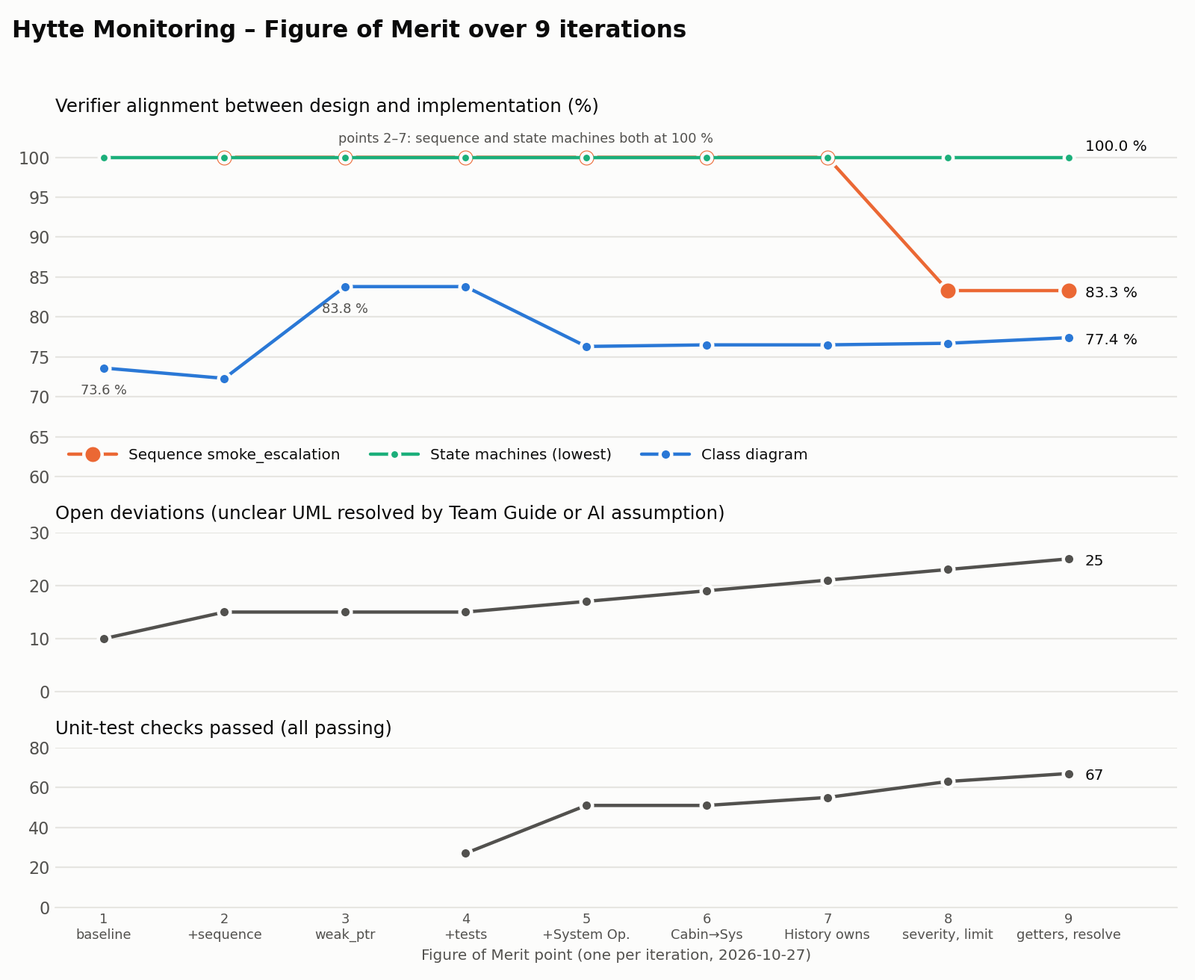
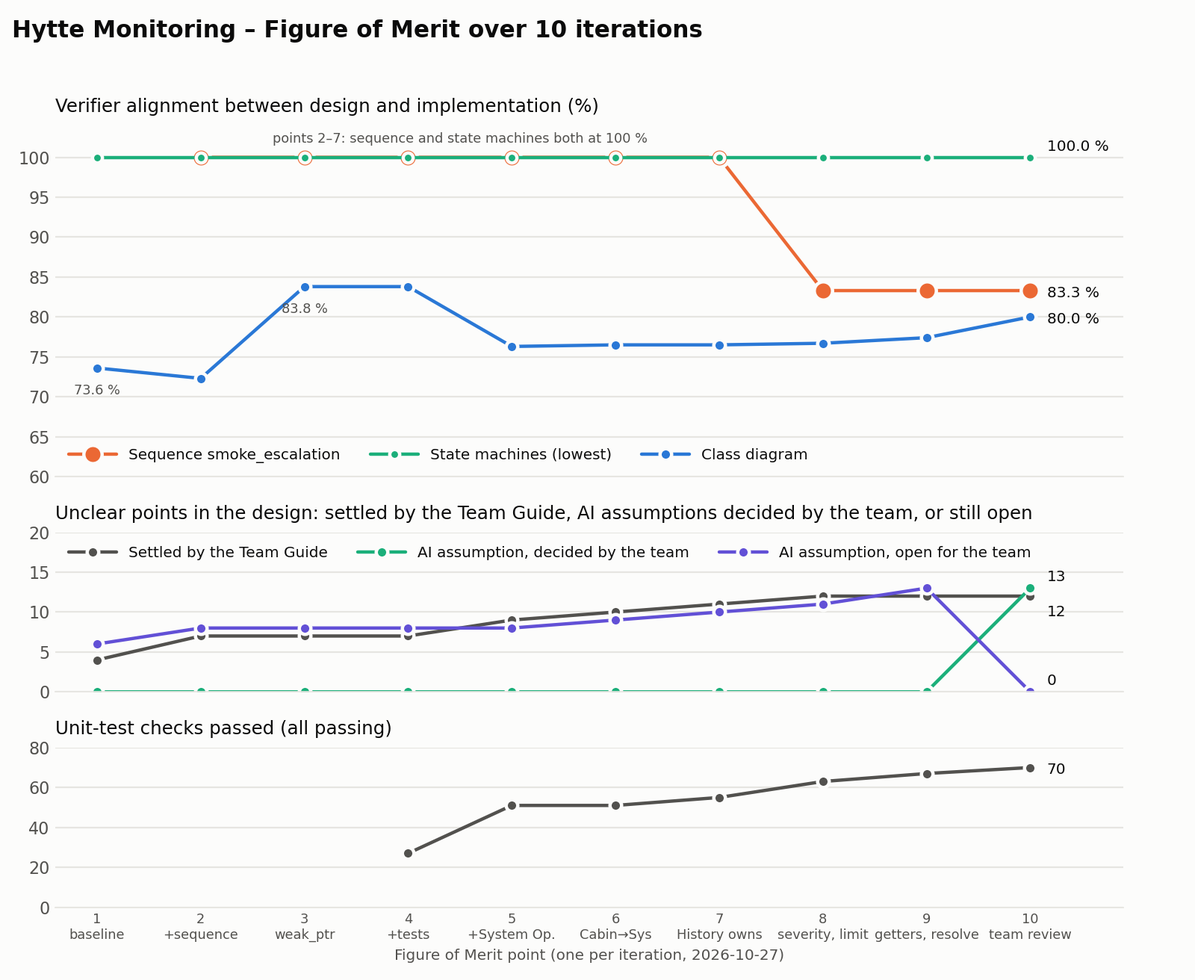
Log the review and FoM point 10

diff --git a/project/reports/plot_fom.py b/project/reports/plot_fom.py
@@ -4,7 +4,8 @@ and the same image to website/img/fom.png for the project page.
     python3 project/reports/plot_fom.py
 
 Three panels on one x-axis (the FoM points), because the measures have different scales
-and a chart never gets two y-axes: verifier alignment in %, open deviations, and unit-test
+and a chart never gets two y-axes: verifier alignment in %, unclear points in the design
+(settled by the Team Guide vs. AI assumptions still open for the team), and unit-test
 checks passed. Colours are the first three slots of the reference palette of the dataviz
 method (blue, orange, aqua), in a fixed order.
 """
@@ -23,6 +24,7 @@ TEXT = "#0b0b0b"
 TEXT_SECONDARY = "#52514e"
 GRID = "#e6e5e1"
 BLUE, ORANGE, AQUA = "#2a78d6", "#eb6834", "#1baf7a"
+VIOLET = "#6250d6"   # slot 7 of the reference palette: open AI assumptions
 
 # Short names for the x-axis, one per point (the full labels are in fom.csv).
 SHORT = {
@@ -35,6 +37,7 @@ SHORT = {
     "7": "History owns",
     "8": "severity, limit",
     "9": "getters, resolve",
+    "10": "team review",
 }
 
 
@@ -75,7 +78,11 @@ def main():
     state_pct = [min(v for v in (number(p["state_incident_pct"]), number(p["state_cabin_pct"]),
                                  number(p["state_monitoring_system_pct"])) if v is not None)
                  for p in points]
-    deviations = [number(p["deviations"]) for p in points]
+    settled = [number(p["deviations_team_guide"]) for p in points]
+    # AI assumptions the team has reviewed and decided: the rest of all deviations.
+    decided = [number(p["deviations"]) - number(p["deviations_team_guide"]) - number(p["deviations_ai_open"])
+               for p in points]
+    ai_open = [number(p["deviations_ai_open"]) for p in points]
     tests = [number(p["tests_passed"].split("/")[0]) if p["tests_passed"] else None for p in points]
 
     figure, (top, middle, bottom) = plt.subplots(
@@ -99,11 +106,17 @@ def main():
         top.annotate(f"{y:.1f} %", (x, y), xytext=(0, -16), textcoords="offset points",
                      ha="center", color=TEXT_SECONDARY, fontsize=8)
 
-    style(middle, "Open deviations (unclear UML resolved by Team Guide or AI assumption)")
-    last_x, last_y = line(middle, xs, deviations, TEXT_SECONDARY, "Deviations")
-    middle.annotate(f"{last_y:.0f}", (last_x, last_y), xytext=(10, -4), textcoords="offset points",
-                    color=TEXT, fontsize=9)
-    middle.set_ylim(0, 30)
+    # An AI assumption is not a resolution: it stays open until the team confirms it (CLAUDE.md).
+    style(middle, "Unclear points in the design: settled by the Team Guide, AI assumptions decided by the team, or still open")
+    # The end values of the first two are close together, so one label goes below its line.
+    for ys, color, name, dy in ((settled, TEXT_SECONDARY, "Settled by the Team Guide", -12),
+                                (decided, AQUA, "AI assumption, decided by the team", 4),
+                                (ai_open, VIOLET, "AI assumption, open for the team", 4)):
+        last_x, last_y = line(middle, xs, ys, color, name)
+        middle.annotate(f"{last_y:.0f}", (last_x, last_y), xytext=(10, dy), textcoords="offset points",
+                        color=TEXT, fontsize=9)
+    middle.legend(loc="upper left", frameon=False, fontsize=9, labelcolor=TEXT, ncol=3, handlelength=3.2)
+    middle.set_ylim(0, 20)
 
     style(bottom, "Unit-test checks passed (all passing)")
     last_x, last_y = line(bottom, xs, tests, TEXT_SECONDARY, "Checks")
@@ -112,10 +125,10 @@ def main():
     bottom.set_ylim(0, 80)
     bottom.set_xticks(xs)
     bottom.set_xticklabels([f"{x}\n{SHORT[str(x)]}" for x in xs], fontsize=8, color=TEXT_SECONDARY)
-    bottom.set_xlim(0.6, 9.9)
+    bottom.set_xlim(0.6, xs[-1] + 0.9)
     bottom.set_xlabel("Figure of Merit point (one per iteration, 2026-10-27)", color=TEXT_SECONDARY, fontsize=9)
 
-    figure.suptitle("Hytte Monitoring – Figure of Merit over 9 iterations", x=0.01, ha="left",
+    figure.suptitle(f"Hytte Monitoring – Figure of Merit over {len(points)} iterations", x=0.01, ha="left",
                     fontsize=14, color=TEXT, fontweight="bold")
     figure.tight_layout(rect=(0, 0, 1, 0.96))
     # One copy for the reports, one for the project page of the website.

diff --git a/project/reports/deviations.md b/project/reports/deviations.md
@@ -7,7 +7,8 @@ unclear, ambiguous, incomplete or contradicted each other. Rules are in
 
 **Resolution order:** UML and ADR first, then `model/Team_Guide.md` as the
 fallback, then an AI assumption as the last resort. AI assumptions stay open
-until the team confirms them.
+until the team decides them. On 2026-10-27 the team reviewed all 13: it kept
+10 and changed 3 (D09, D14, D15).
 
 Notation changes forced by the verifier are not deviations. They are listed in
 [the conversion README](../diagrams/conversion/README.md).
@@ -15,36 +16,40 @@ Notation changes forced by the verifier are not deviations. They are listed in
 | Source | Count |
 |--------|------:|
 | Team Guide | 12 |
-| AI assumption, open for the team | 13 |
+| Team decision (was an AI assumption) | 13 |
+| AI assumption, open for the team | 0 |
 | **Total** | **25** |
+
+An AI assumption is **not** a resolution. The team's review of all 13, with the
+answer for each, is in [ai-assumptions-review.md](ai-assumptions-review.md).
 
 | ID | Where | Unclear in the UML or ADR | Resolution | Source |
 |----|-------|---------------------------|------------|--------|
 | D01 | Class diagram | The 8 lines between classes have no arrowheads, so it is not clear which class refers to which | Owner → owned or used: Owner → Cabin, Contact and Incident; Cabin → Sensor; System → Cabin, Sensor and Incident; History → Incident | Team Guide §1, §2, §3, §7, §9, §13 |
-| D02 | Class diagram | The 8 associations have no role names, but in C++ each one is a named member | Named after the target class (`cabins`, `contacts`, `incidents`, `sensors`, `cabin`) | AI assumption |
+| D02 | Class diagram | The 8 associations have no role names, but in C++ each one is a named member | Named after the target class (`cabins`, `contacts`, `incidents`, `sensors`, `cabin`) | Team decision (2026-10-27): keep |
 | D03 | Class diagram | HytteOwner–EmergencyContact and HytteOwner–Incident have no multiplicity | `*` for both: the owner configures contacts (plural) and views and resolves Incidents | Team Guide §2, §8, §13 |
-| D04 | Class diagram | MonitoringSystem–Cabin has no multiplicity | `1`: one monitoring system per cabin | AI assumption |
-| D05 | Class diagram | `Incident.timestamp` has type `DateTime`, which is not defined anywhere | `string` | AI assumption |
-| D06 | Class diagram | `Sensor` is `<<abstract>>` but has no abstract method, which C++ requires | `detectCondition()` made abstract: each subclass has its own detection. Side effect: every subclass must override it, which shows as 8 Extra methods in the class report | AI assumption |
+| D04 | Class diagram | MonitoringSystem–Cabin has no multiplicity | `1`: one monitoring system per cabin | Team decision (2026-10-27): keep |
+| D05 | Class diagram | `Incident.timestamp` has type `DateTime`, which is not defined anywhere | `string` | Team decision (2026-10-27): keep |
+| D06 | Class diagram | `Sensor` is `<<abstract>>` but has no abstract method, which C++ requires | `detectCondition()` made abstract: each subclass has its own detection. Side effect: every subclass must override it, which shows as 8 Extra methods in the class report | Team decision (2026-10-27): keep |
 | D07 | Implementation | `Cabin.changeMode()` takes no parameter, so the target mode is not given | Switches HOME ⇄ AWAY | Team Guide §6 |
 | D08 | Implementation | What `Sensor.monitor()` does is not specified | Detects the condition only while the sensor is enabled | Team Guide §4 |
-| D09 | Implementation | The guard `contactsConfigured` needs Incident to know the owner's contacts, but the class diagram gives Incident only a dependency on EmergencyContact | The guard returns `false` | AI assumption |
-| D10 | Implementation | What `MonitoringSystem.evaluateEvent()` does is not specified | Calls `monitor()` on every sensor, then `createIncident()` and `escalateIncident()` as the sequence diagram shows. Every event is treated as Critical smoke (mock-up) | AI assumption |
+| D09 | Implementation | The guard `contactsConfigured` needs Incident to know the owner's contacts, but the class diagram gives Incident only a dependency on EmergencyContact | Was: the guard returns `false`. **Changed:** `Incident --> "*" EmergencyContact : contacts` replaces the dependency, and `registerIncident(severity, contacts)` gives each new Incident the system's contacts. The guard is true while at least one contact exists, and `notifyContacts()` notifies them (Team Guide §10–§12) | Team decision (2026-10-27): change |
+| D10 | Implementation | What `MonitoringSystem.evaluateEvent()` does is not specified | Calls `monitor()` on every sensor, then `createIncident()` and `escalateIncident()` as the sequence diagram shows. Every event is treated as Critical smoke (mock-up) | Team decision (2026-10-27): keep |
 | D11 | Sequence diagram | The lifelines *Communication Service* and *Emergency Service* are not classes in the class diagram | Left out of the verified scenario. They are external systems, and the delivery they do is simulated | Team Guide §16, §17 |
 | D12 | Sequence diagram | The messages are prose, not method names | Each one mapped to a class diagram method (`evaluateEvent`, `createIncident`, `registerIncident`, `escalateIncident`, `receiveNotification`, `updateIncident`) | Team Guide §7, §9, §12 |
 | D13 | Sequence diagram | *Register* and *Update Incident/Event History* are drawn as MonitoringSystem self-messages, but the class diagram puts these methods on `IncidentHistory` | `IncidentHistory` lifeline added, and the calls go to it | Team Guide §9 |
-| D14 | Sequence and class diagram | The sequence has MonitoringSystem call IncidentHistory and EmergencyContact, but the class diagram has no relation from MonitoringSystem to either class | The implementation adds the two associations it needs (`history`, `contacts`). They show as Extra in the class report until the team decides | AI assumption |
-| D15 | Sequence and class diagram | *Send / Deliver Critical Notification* to the owner, but `HytteOwner` has no method to receive a notification | Message left out of the scenario | AI assumption |
+| D14 | Sequence and class diagram | The sequence has MonitoringSystem call IncidentHistory and EmergencyContact, but the class diagram has no relation from MonitoringSystem to either class | Was: two associations in the code only (2 Extra). **Changed:** `MonitoringSystem --> "1" IncidentHistory : history` and `MonitoringSystem --> "*" EmergencyContact : contacts` added to the class diagram | Team decision (2026-10-27): change |
+| D15 | Sequence and class diagram | *Send / Deliver Critical Notification* to the owner, but `HytteOwner` has no method to receive a notification | Was: message left out. **Changed:** `+receiveNotification() void` added to `HytteOwner` (Team Guide §7). The message is still not in the scenario, because nothing in the model links MonitoringSystem to HytteOwner (finding F18) | Team decision (2026-10-27): change |
 | D16 | State machine, System Operation page | The mode arrows (*owner selects HOME / AWAY*) have no action, so it is not clear how the class diagram's `Cabin.mode` attribute follows the state | Each arrow that changes the mode has the action `/ changeMode` (which switches HOME ⇄ AWAY, D07). `Awaiting → Home` has none, because `mode` starts as HOME | Team Guide §6 |
 | D17 | State machine, System Operation page | The door and motion rule is only a note on the AWAY state (*Enabled Door/Motion monitoring can create security Warnings*), not a transition | Self-transitions `doorOpened` and `motionDetected / reportSecurityWarning` on `Away` and `AwayCold`; none on HOME, where they are ignored. The *Enabled* condition is not modelled, because no class holds per-sensor enabling for the owner | Team Guide §6 |
-| D18 | Class diagram (F03 decision) | The decided line Cabin → MonitoringSystem has no role name or multiplicity | Role `system`, multiplicity `1`: one cabin, one monitoring system (matches D04) | AI assumption |
+| D18 | Class diagram (F03 decision) | The decided line Cabin → MonitoringSystem has no role name or multiplicity | Role `system`, multiplicity `1`: one cabin, one monitoring system (matches D04) | Team decision (2026-10-27): keep |
 | D19 | Implementation (F03 decision) | Which MonitoringSystem method a security Warning should call is not drawn | `reportSecurityWarning()` calls `createIncident()`: the system creates the Incident | Team Guide §7 |
 | D20 | Implementation (F10 decision) | `registerIncident()` has no parameters, so it is not clear what it registers | It creates the new Incident and keeps it: an Incident is registered in the history when it is created | Team Guide §9 |
-| D21 | Implementation (F10 decision) | A new Incident needs an id and a timestamp, but nothing supplies them | Id `I-1`, `I-2`, … in order, counted by a function-local counter (the class diagram has no attribute for it), so ids are never reused after old Incidents are dropped; timestamp empty (the micro:bit has no clock, see D05) | AI assumption |
-| D22 | Class diagram (F13 decision) | The decided history limit has no size and no rule for what is dropped | `maxIncidents = 20`. When full, the oldest *closed* Incident is dropped, or else the oldest. The dashboard database keeps all of them | AI assumption |
+| D21 | Implementation (F10 decision) | A new Incident needs an id and a timestamp, but nothing supplies them | Id `I-1`, `I-2`, … in order, counted by a function-local counter (the class diagram has no attribute for it), so ids are never reused after old Incidents are dropped; timestamp empty (the micro:bit has no clock, see D05) | Team decision (2026-10-27): keep |
+| D22 | Class diagram (F13 decision) | The decided history limit has no size and no rule for what is dropped | `maxIncidents = 20`. When full, the oldest *closed* Incident is dropped, or else the oldest. The dashboard database keeps all of them | Team decision (2026-10-27): keep |
 | D23 | Implementation (F11 decision) | Which severity each event creates is not drawn | Smoke (`evaluateEvent()`, the `smoke_escalation` path) creates a CRITICAL Incident; a door or motion event in AWAY creates a WARNING | Team Guide §6, §7, §12 |
-| D24 | Class diagram (F15 decision) | The new line HytteOwner → IncidentHistory has no role name or multiplicity | Role `history`, multiplicity `1`: the owner has one cabin system and so one history | AI assumption |
-| D25 | Implementation (F15 decision) | What `findIncident()` returns when no Incident has that id (for example one dropped by the limit, F13) is not drawn | Returns no Incident (a null pointer), and `resolveIncident()` then does nothing | AI assumption |
+| D24 | Class diagram (F15 decision) | The new line HytteOwner → IncidentHistory has no role name or multiplicity | Role `history`, multiplicity `1`: the owner has one cabin system and so one history | Team decision (2026-10-27): keep |
+| D25 | Implementation (F15 decision) | What `findIncident()` returns when no Incident has that id (for example one dropped by the limit, F13) is not drawn | Returns no Incident (a null pointer), and `resolveIncident()` then does nothing | Team decision (2026-10-27): keep |
 
 ## Findings and team decisions
 
@@ -61,8 +66,8 @@ assignment 1 diagrams in `model/` are frozen and are not updated (see
 | F03 | In `state-cabin`, the Cabin reports a security Warning, but the class diagram gives Cabin no link to `MonitoringSystem` or `Incident`, so no Incident can be created from it | Add the association `Cabin --> "1" MonitoringSystem : system` (decided by the user, 2026-10-27). Details D18, D19 | Done in the conversion (class 76.5 %, the new relation is identical). Applied to the official model |
 | F04 | The LEDs must also show HOME / AWAY, and `Cabin` has the same gap as F01 | `+state() State` added to `Cabin` together with F02, following the same decision as F01 | Confirmed by the user, 2026-10-27. Applied to the official model |
 | F05 | The class diagram does not show the state machine members of Incident, Cabin and MonitoringSystem (`state`, `handle()`, guards, actions): 17 Extra in the class report | Open: add them to the class diagram, as the template's examples do | Open |
-| F06 | Sequence vs class diagram: MonitoringSystem calls IncidentHistory and EmergencyContact without a relation (D14): 2 Extra | Open | Open |
-| F07 | `Incident ..> EmergencyContact` is drawn, but no Incident method uses EmergencyContact: 1 Missing | Open | Open |
+| F06 | Sequence vs class diagram: MonitoringSystem calls IncidentHistory and EmergencyContact without a relation (D14): 2 Extra | Add `MonitoringSystem --> "1" IncidentHistory : history` and `MonitoringSystem --> "*" EmergencyContact : contacts` (decided by the team in the review of D14, 2026-10-27) | Applied to the official model (class 80.0 %, both identical) |
+| F07 | `Incident ..> EmergencyContact` is drawn, but no Incident method uses EmergencyContact: 1 Missing | Replace it with `Incident --> "*" EmergencyContact : contacts`, and give `registerIncident()` the parameter `contacts: vector<EmergencyContact>`, so the guard `contactsConfigured` can be real (decided by the team in the review of D09, 2026-10-27) | Applied to the official model (0 Missing) |
 | F08 | The sensor subclasses must override `detectCondition()` (D06), which they do not show: 8 Extra | Open | Open |
 | F09 | ADR-001 is not testable: the class diagram has no way to disable a sensor and no thresholds | Open | Open |
 | F10 | No class owns `Incident` objects: every line to Incident is a plain association (MonitoringSystem, IncidentHistory, HytteOwner). So `createIncident()` has nowhere to keep a new Incident | `IncidentHistory *-- "*" Incident : incidents`, a composition (decided by the user, 2026-10-27). Details D20, D21 | Done in the conversion (the relation is identical). Applied to the official model |
@@ -73,3 +78,4 @@ assignment 1 diagrams in `model/` are frozen and are not updated (see
 | F15 | Button B (the owner resolves) cannot go through the model: `HytteOwner.resolveIncident()` has no parameter, and since IncidentHistory owns the Incidents with `unique_ptr` (F10), the `weak_ptr` associations from HytteOwner and MonitoringSystem to Incident can never point at them. Nothing in the model can reach a live Incident to resolve it | Open. Options: `IncidentHistory.updateIncident()` gets parameters (for example the id and an event), or HytteOwner resolves through the history, or the history's composition becomes an aggregation (`shared_ptr`) so the associations work | Decided 2026-10-27: the user asked the AI to "fix button B" and left the design to it. The AI chose, following Team Guide §8: `HytteOwner.resolveIncident(incidentId: string)`, a new line `HytteOwner --> "1" IncidentHistory : history`, and `IncidentHistory.findIncident(incidentId: string): Incident`. The owner finds the live Incident, fires `ownerResolved` (state machine: closes it), then calls `updateIncident()` (D24, D25). The `HytteOwner --> "*" Incident` line stays, but it cannot hold Incidents owned by the history. Applied to the official model; **the team may still choose another design** |
 | F16 | The dashboard needs each Incident's id and severity to update its row, but the class diagram gives Incident no getter for either (only `state()`, F01). The board sends the states only | `+getId() string` and `+getSeverity() Severity` on Incident (decided by the user, 2026-10-27) | Applied to the official model |
 | F17 | Seen on the board (Gate 4): every shake creates a **new** Critical Incident, so one smoke event shaken 4 times gave 4 Incidents. The model has no rule for "this condition already has an active Incident"; Team Guide §7 only covers upgrading a Warning to Critical | Open. Options: a repeated detection while an Incident for the same sensor is active updates that Incident, or it is ignored | Open |
+| F18 | The team decided that `HytteOwner` can receive a notification (`+receiveNotification() void`, review of D15, 2026-10-27), applied to the official model. But the scenario still cannot send it: no class that sends notifications (MonitoringSystem or Incident) has a line to `HytteOwner` | Open. Options: add a line such as `MonitoringSystem --> "1" HytteOwner : owner` and the message to the sequence diagram, or leave the owner's notification to the board's LED screen and the dashboard | Open |

diff --git a/project/reports/ai-assumptions-review.md b/project/reports/ai-assumptions-review.md
@@ -1,0 +1,106 @@
+# AI assumptions: team review
+
+In this project an **AI assumption is not a solution**. When the diagrams and the
+Team Guide did not settle a question, the AI made the smallest assumption it could,
+so the work could go on. Each one stays **open** until the team decides
+([CLAUDE.md](../../CLAUDE.md#deviations)). The full log is in
+[deviations.md](deviations.md).
+
+There were **13 open AI assumptions** at FoM point 9. **The team reviewed all 13 on
+2026-10-27** (FoM point 10): it kept 10 and changed 3 (D09, D14, D15). None is open now.
+
+## How to review
+
+For each item, tick one box and add a short note if needed:
+
+- **Keep**: the team agrees with the AI's choice.
+- **Change to …**: the team wants something else (write what).
+- **Settled by Team Guide §…**: the Team Guide already answers it (write the section).
+
+Then give the answers to the AI. Each one is logged as a **team decision** in
+`deviations.md`. A "change" is applied to the official model or the code, the
+verifier is run, and a new FoM point is added. The "AI assumption, open" line in
+the chart (`fom.png`) goes down as items are decided.
+
+---
+
+## A. Small technical details the C++ needed (low risk)
+
+### D02 – Names of the lines in the class diagram
+- **Unclear:** the 8 lines between classes have no names, but in C++ each line is a named member.
+- **AI chose:** named after the class they point to: `cabins`, `contacts`, `incidents`, `sensors`, `cabin`.
+- [x] Keep  [ ] Change to: ________  [ ] Settled by Team Guide §____
+
+### D18 – The Cabin → MonitoringSystem line (your decision F03)
+- **Unclear:** the line has no name or number.
+- **AI chose:** name `system`, number `1` (one cabin, one monitoring system).
+- [x] Keep  [ ] Change to: ________  [ ] Settled by Team Guide §____
+
+### D24 – The HytteOwner → IncidentHistory line (decision F15)
+- **Unclear:** the line has no name or number.
+- **AI chose:** name `history`, number `1`.
+- [x] Keep  [ ] Change to: ________  [ ] Settled by Team Guide §____
+
+### D05 – The type `DateTime`
+- **Unclear:** `Incident.timestamp` is a `DateTime`, which is not defined anywhere.
+- **AI chose:** `string`. The micro:bit has no clock, so it stays empty for now.
+- [x] Keep  [ ] Change to: ________  [ ] Settled by Team Guide §____
+
+### D21 – Ids for new Incidents (decision F10)
+- **Unclear:** nothing in the design gives a new Incident its id.
+- **AI chose:** `I-1`, `I-2`, … in order, never reused. They start again at `I-1` after a reset.
+- [x] Keep  [ ] Change to: ________  [ ] Settled by Team Guide §____
+
+### D25 – Resolving an Incident that does not exist (decision F15)
+- **Unclear:** what happens when the owner resolves an id that is not on the board (for example one dropped by the limit of 20).
+- **AI chose:** nothing happens.
+- [x] Keep  [ ] Change to: ________  [ ] Settled by Team Guide §____
+
+---
+
+## B. Choices that change behaviour (worth a real decision)
+
+### D04 – How many cabins one monitoring system watches
+- **Unclear:** the MonitoringSystem–Cabin line has no number.
+- **AI chose:** `1`.
+- **Hint:** Team Guide §1 speaks of "cabins", plural. Is that one system per cabin, or one for several?
+- [x] Keep  [ ] Change to: ________  [ ] Settled by Team Guide §____
+
+### D06 – `Sensor` is abstract but has no abstract method
+- **Unclear:** in C++ an abstract class needs at least one abstract method.
+- **AI chose:** made `detectCondition()` abstract.
+- **Effect:** every sensor must then repeat `detectCondition()`, which shows as 8 "extra" methods in the class report.
+- **Options:** keep; draw `detectCondition()` on each sensor in the class diagram; or make `Sensor` a normal class.
+- [x] Keep  [ ] Change to: ________  [ ] Settled by Team Guide §____
+
+### D09 – The guard "contacts configured"
+- **Unclear:** the Incident state machine checks whether contacts are configured, but an Incident has no link to the contacts.
+- **AI chose:** the check always says **no**.
+- **Effect:** **escalation to family contacts never happens** in the state machine.
+- **Hint:** Team Guide §10–§12 describe escalation to contacts in detail.
+- [ ] Keep  [x] Change to: escalation must be possible. `Incident --> "*" EmergencyContact : contacts`; the system gives each new Incident its contacts  [ ] Settled by Team Guide §____
+
+### D10 – What `evaluateEvent()` does
+- **Unclear:** the design does not say.
+- **AI chose:** it checks the sensors, then treats the event as **Critical smoke** (the `smoke_escalation` sequence).
+- **Effect:** fine for the demo, but it is not general. A door goes through Cabin instead.
+- [x] Keep  [ ] Change to: ________  [ ] Settled by Team Guide §____
+
+### D14 – Calls with no line in the class diagram
+- **Unclear:** the sequence diagram has MonitoringSystem call IncidentHistory and EmergencyContact, but the class diagram has no line between them.
+- **AI chose:** added the two lines in the code only.
+- **Effect:** 2 "extra" in the class report.
+- **Options:** keep; add the two lines to the class diagram; or change the sequence diagram.
+- [ ] Keep  [x] Change to: add the 2 lines to the class diagram  [ ] Settled by Team Guide §____
+
+### D15 – The owner is not notified in the scenario
+- **Unclear:** the sequence diagram sends a Critical notification to the owner, but `HytteOwner` has no method to receive it.
+- **AI chose:** left that message out.
+- **Hint:** Team Guide §7 says the user **is** notified when an Incident needs attention.
+- [ ] Keep  [x] Change to: add `+receiveNotification() void` to HytteOwner (Team Guide §7); see finding F18  [ ] Settled by Team Guide §____
+
+### D22 – Size of the history limit (decision F13)
+- **Unclear:** the team decided on a limit, but not its size or what is dropped.
+- **AI chose:** 20 Incidents on the board; when full, the oldest **closed** one goes first, otherwise the oldest. The browser database keeps everything.
+- **Hint:** Team Guide §9 says all Incidents are stored. That is still true in the browser database.
+- [x] Keep  [ ] Change to: ________  [ ] Settled by Team Guide §____

diff --git a/project/reports/tests-and-benchmarks.md b/project/reports/tests-and-benchmarks.md
@@ -16,7 +16,7 @@ cmake -S . -B build-release -DCMAKE_BUILD_TYPE=Release && cmake --build build-re
   MonitoringSystem each declare `friend struct TestAccess;` for this. The
   verifier ignores friend declarations.
 
-**Result: 3/3 suites, 67/67 checks passed** (FoM point 9; earlier points had 27, 51, 55 and 63). The tests now read id and severity through the model's getters (F16), not `TestAccess`.
+**Result: 3/3 suites, 70/70 checks passed** (FoM point 10; earlier points had 27, 51, 55, 63 and 67). The tests now read id and severity through the model's getters (F16), not `TestAccess`.
 
 | Suite | What it checks | Model source | Checks |
 |-------|----------------|--------------|-------:|
@@ -27,6 +27,7 @@ cmake -S . -B build-release -DCMAKE_BUILD_TYPE=Release && cmake --build build-re
 | | Escalation events keep a Critical Incident Critical | State machine | 3 |
 | | A Warning ignores Emergency Service escalation | State machine (no arrow), Team Guide §11 | 4 |
 | | Events with no arrow are ignored, including every event after `Closed` | State machine | 3 |
+| | The guard `contactsConfigured` is true only while a contact exists | State machine guard, Team Guide §10 (team decision on D09) | 3 |
 | `test_cabin_and_sensor` | Cabin starts HOME; `changeMode()` switches HOME ⇄ AWAY | Class diagram, Team Guide §6 (D07) | 3 |
 | | `monitor()` asks an enabled sensor to detect its condition | Class diagram, Team Guide §4 (D08) | 1 |
 | `test_system_operation` | Cabin starts in `Awaiting`; owner chooses AWAY, then HOME, and `mode` follows | `state-cabin`, Team Guide §6 (D16) | 5 |
@@ -243,7 +244,7 @@ about 10 Incidents stored, and 27 µs with none.
 
 - **Browser:** Mozilla's Firefox 159.0 (WebSerial since 151), in a separate
   profile. Ubuntu's snap Firefox and VS Code's preview cannot reach the
-  serial port (WORKFLOW Steps 31, 36).
+  serial port.
 - **Result, reported by the user:** the dashboard connected to the
   micro:bit and worked.
 - **Stored data:** read straight from Firefox's IndexedDB SQLite file in the
